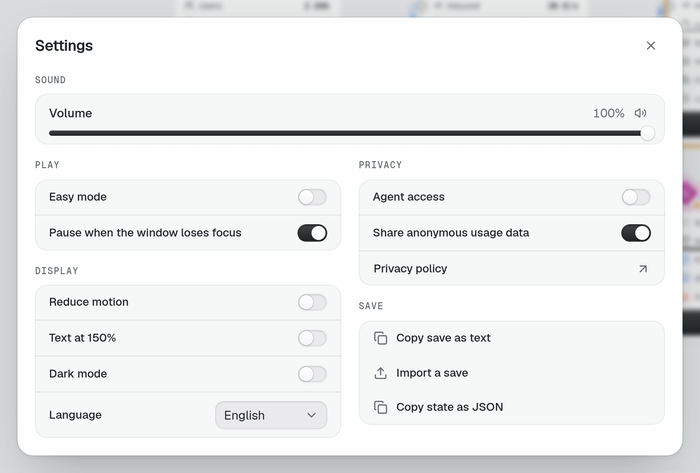
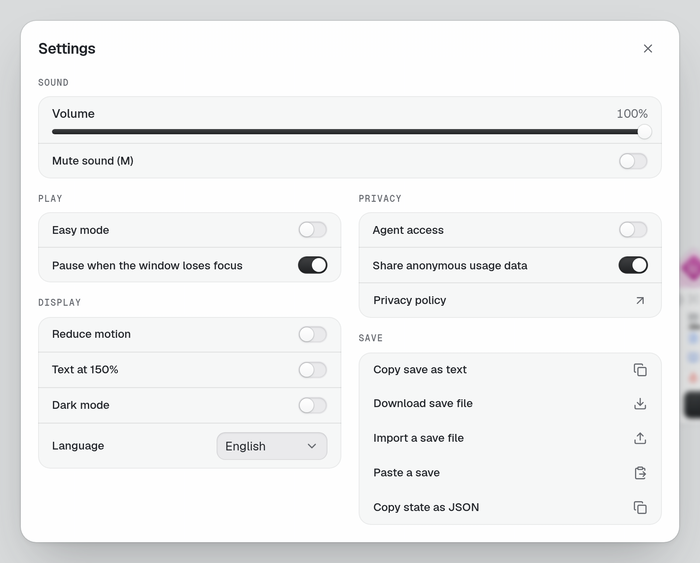
Show the sectioned menu and settings in the wiki
The Settings page names the five sections and says the title screen shows one at a time. Its table lists the five save actions, including the file download and import. The Start page describes the Company and Practice groups, and both screenshots follow the new screens.

Amp-Thread-ID: https://ampcode.com/threads/T-01a1c9e2-f108-75c9-80c9-df44d6c5f0b6

diff --git a/apps/wiki/content/play/settings-and-keys.md b/apps/wiki/content/play/settings-and-keys.md
@@ -7,7 +7,7 @@ aliases: settings, keys, keyboard, shortcuts, hotkeys, key reference, reduce mot
 gdd: /design/15-ui-ux
 ---
 
-Press `Esc` with nothing open to get the Menu, then choose **Settings**. On the title screen, **Settings** is in the taskbar. The panel groups its rows into Sound, Play, Display, Privacy, and Save, and each change applies at once.
+Press `Esc` with nothing open to get the Menu, then choose **Settings**. On the title screen, **Settings** is in the taskbar. Settings comes in five sections: **Sound**, **Play**, **Display**, **Privacy**, and **Save**. The panel lays all five out at once; the title screen shows one section at a time, and `←` and `→` step between them. Each change applies at once.
 
 ![The Settings panel](/play/settings.png)
 
@@ -15,7 +15,7 @@ Press `Esc` with nothing open to get the Menu, then choose **Settings**. On the 
 
 | Setting                               | Effect                                                                                |
 | ------------------------------------- | ------------------------------------------------------------------------------------- |
-| **Volume**                            | Sets the level of the effect mix. The speaker beside it mutes everything.             |
+| **Volume**                            | Sets the level of the effect mix. On the title screen, `←` and `→` set it.            |
 | **Mute sound** (`M`)                  | Turns all sound off. The slider rests until you turn sound back on.                   |
 | **Easy mode**                         | Adds Pause and the speed control, and reveals **Pause on SEV1 and SEV2**.             |
 | **Pause on SEV1 and SEV2**            | Pauses the clock when a severe incident starts. Off by default.                       |
@@ -28,10 +28,12 @@ Press `Esc` with nothing open to get the Menu, then choose **Settings**. On the 
 | **Share anonymous usage data**        | Sends anonymous usage data. Off stops capture. On by default.                         |
 | **Privacy policy**                    | Opens the policy in a new page.                                                       |
 | **Copy save as text**                 | Copies this Company as text that starts with `QSV1:`.                                 |
-| **Import a save**                     | Asks you to paste that text and loads it.                                             |
+| **Download save file**                | Saves this Company as a file named after it, such as `quorum-acme-cloud.txt`.         |
+| **Import a save file**                | Loads a Company from a save file.                                                     |
+| **Paste a save**                      | Asks you to paste that `QSV1:` text and loads it.                                     |
 | **Copy state as JSON**                | Copies the whole game state, for bug reports.                                         |
 
-Settings belong to the browser, not to a Company. Read [Move a Company to another browser](/guides/move-a-company) before you use **Import a save**, and the [privacy page](/about/privacy) for what the usage data holds.
+Settings belong to the browser, not to a Company. Read [Move a Company to another browser](/guides/move-a-company) before you use **Import a save file**, and the [privacy page](/about/privacy) for what the usage data holds.
 
 The Menu also holds **Resume**, **Settings**, **Room**, **Exit company** when you can exit, and **Title screen**. **Resume** and `Esc` return to the board. Read [Play in a Room](/play/rooms) before you take a Company online.
 

diff --git a/apps/wiki/content/play/start-a-company.md b/apps/wiki/content/play/start-a-company.md
@@ -8,9 +8,9 @@ aliases: start, new game, new company, found a company, clock in, title screen, 
 
 To start playing, click the **Founder** badge on the title screen, choose **Start a company**, name it, and select **Found**. The Board opens in the Garage, the first [Era](/eras/garage), and the clock runs.
 
-![The title screen: a badge reader with the Founder badge.](/play/title.png)
+![The Main menu: the Company rows, then the Practice rows.](/play/title.png)
 
-_Look at the Founder badge. Clicking it is the only way past this screen._
+_Continue stays at the top while a Company is open. The Practice rows never touch it._
 
 ## Found a Company
 
@@ -30,7 +30,7 @@ On the title screens, `↑` and `↓` move the selection, `Enter` opens the sele
 
 ## Other ways to start
 
-The **Main menu** has more rows than **Start a company**:
+The **Main menu** groups its rows under **Company** and **Practice**. **Company** holds **Continue**, **New company**, **Start in Pre-seed**, **Import a company**, and **Companies**. **Practice** holds **Sandbox** and **Challenges**, which need no Company:
 
 - **Start in Pre-seed** skips the Garage. The Design already has its own Database Node, so you start with the lessons of the first Era learned.
 - **Sandbox** opens a Board that changes nothing in a Company. The guided Sandboxes each teach one mechanic. The free Sandbox has every Component unlocked and no Cash.
